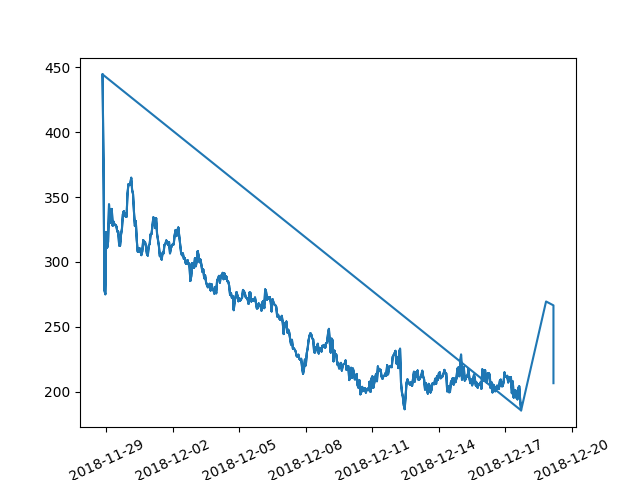
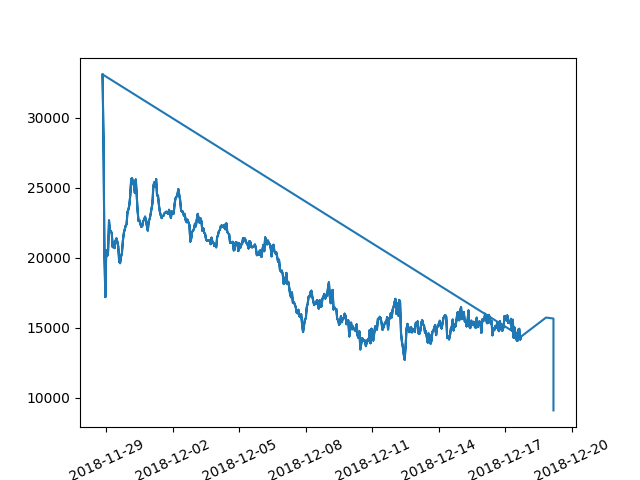
saves all images

diff --git a/database_multiprocessing/python_multiprocessing.py b/database_multiprocessing/python_multiprocessing.py
@@ -74,10 +74,9 @@ def pack_evaluation(price_alert_q = None, eval_q = None):
 		common_uncommon_rare_value = 0
 		for card_type in common_uncommon_rare:
 			common_uncommon_rare_value += row[card_type]
-		common_uncommon_rare_values = np.append(common_uncommon_rare_values, common_uncommon_rare)
+		common_uncommon_rare_values = np.append(common_uncommon_rare_values, common_uncommon_rare_value)
 
 	print("DONE")
-	print(common_uncommon_values)
 
 	expected_values = np.array([])
 	date_array = np.array([])
@@ -174,6 +173,12 @@ def make_graphs(eval_q = None, image_q = None):
 		uncommon_array = np.append(uncommon_array, eval_q.get())
 		rare_array = np.append(rare_array, eval_q.get())
 
+		print(date_array.shape)
+		print(eval_array.shape)
+		print(common_array.shape)
+		print(uncommon_array.shape)
+		print(rare_array.shape)
+
 		plt.xticks( rotation=25 )
 		plt.plot_date(date_array, eval_array, '-')
 		plt.savefig('temp_graph.png')
@@ -209,8 +214,8 @@ if __name__ == '__main__':
 	# Queue used to update tell the price alert to send a text
 	price_alert_q = Queue()
 	# Queue to send data to the website
-	image_q = Queue()
 	eval_q = Queue()
+	image_q = Queue()
 
 	p_eval = Process(target=pack_evaluation, args=(price_alert_q, eval_q, ))
 	p_alert = Process(target=price_alert, args=(price_alert_q, ))
@@ -220,6 +225,7 @@ if __name__ == '__main__':
 
 	p_eval.start()
 	p_graph.start()
+
 
 	p_eval.join()
 	p_graph.join()
